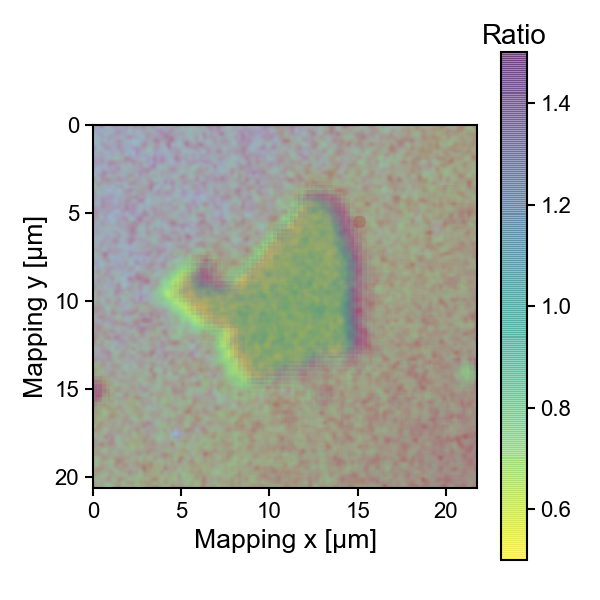
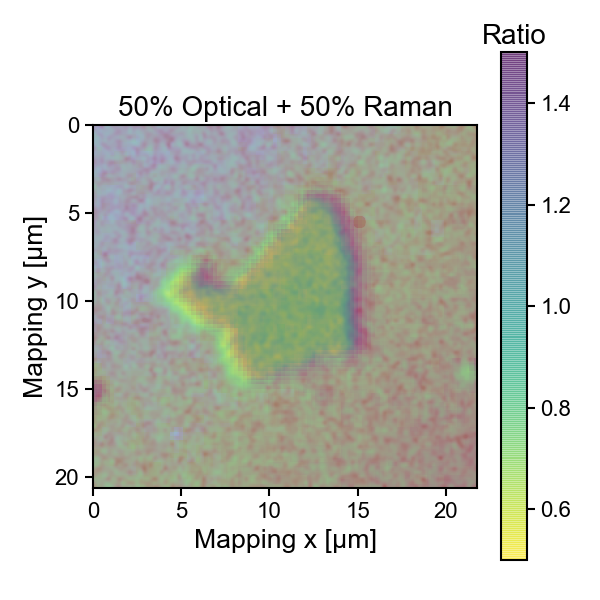
Fix typo with xlist_units

Changed region(s): [[0.18, 0.15, 0.75, 0.21]]

diff --git a/renishawWiRE/wdfReader.py b/renishawWiRE/wdfReader.py
@@ -56,11 +56,11 @@ class WDFReader(object):
     count (int) : Numbers of experiments (same type), can be smaller than capacity
     spectral_units (int) : Unit of spectra, see unit_types
     xlist_type (int) : See unit_types
-    xlist_units (int) : See unit_types
+    xlist_unit (int) : See unit_types
     xlist_length (int): Size for the xlist
     xdata (numpy.array): x-axis data
     ylist_type (int): Same as xlist_type
-    ylist_units (int): Same as xlist_units
+    ylist_unit (int): Same as xlist_unit
     ylist_length (int): Same as xlist_length
     ydata (numpy.array): y-data, possibly not used
     point_per_spectrum (int): Should be identical to xlist_length
@@ -251,7 +251,7 @@ class WDFReader(object):
         self.file_obj.seek(pos + offset)
         setattr(self, "{0}list_type".format(dir.lower()),
                 DataType(self.__read_type("int32")))
-        setattr(self, "{0}list_units".format(dir.lower()),
+        setattr(self, "{0}list_unit".format(dir.lower()),
                 UnitType(self.__read_type("int32")))
         size = getattr(self, "{0}list_length".format(dir.lower()))
         if size == 0:           # Possibly not started

diff --git a/examples/ex7_overlay_mapping.py b/examples/ex7_overlay_mapping.py
@@ -78,6 +78,7 @@ def main():
         plt.ylabel("Mapping y [μm]")
         cb = plt.colorbar(cm)
         cb.ax.set_title("Ratio")
+        plt.title("50% Optical + 50% Raman")
         plt.tight_layout()
         plt.show(block=False)
         plt.pause(3)
